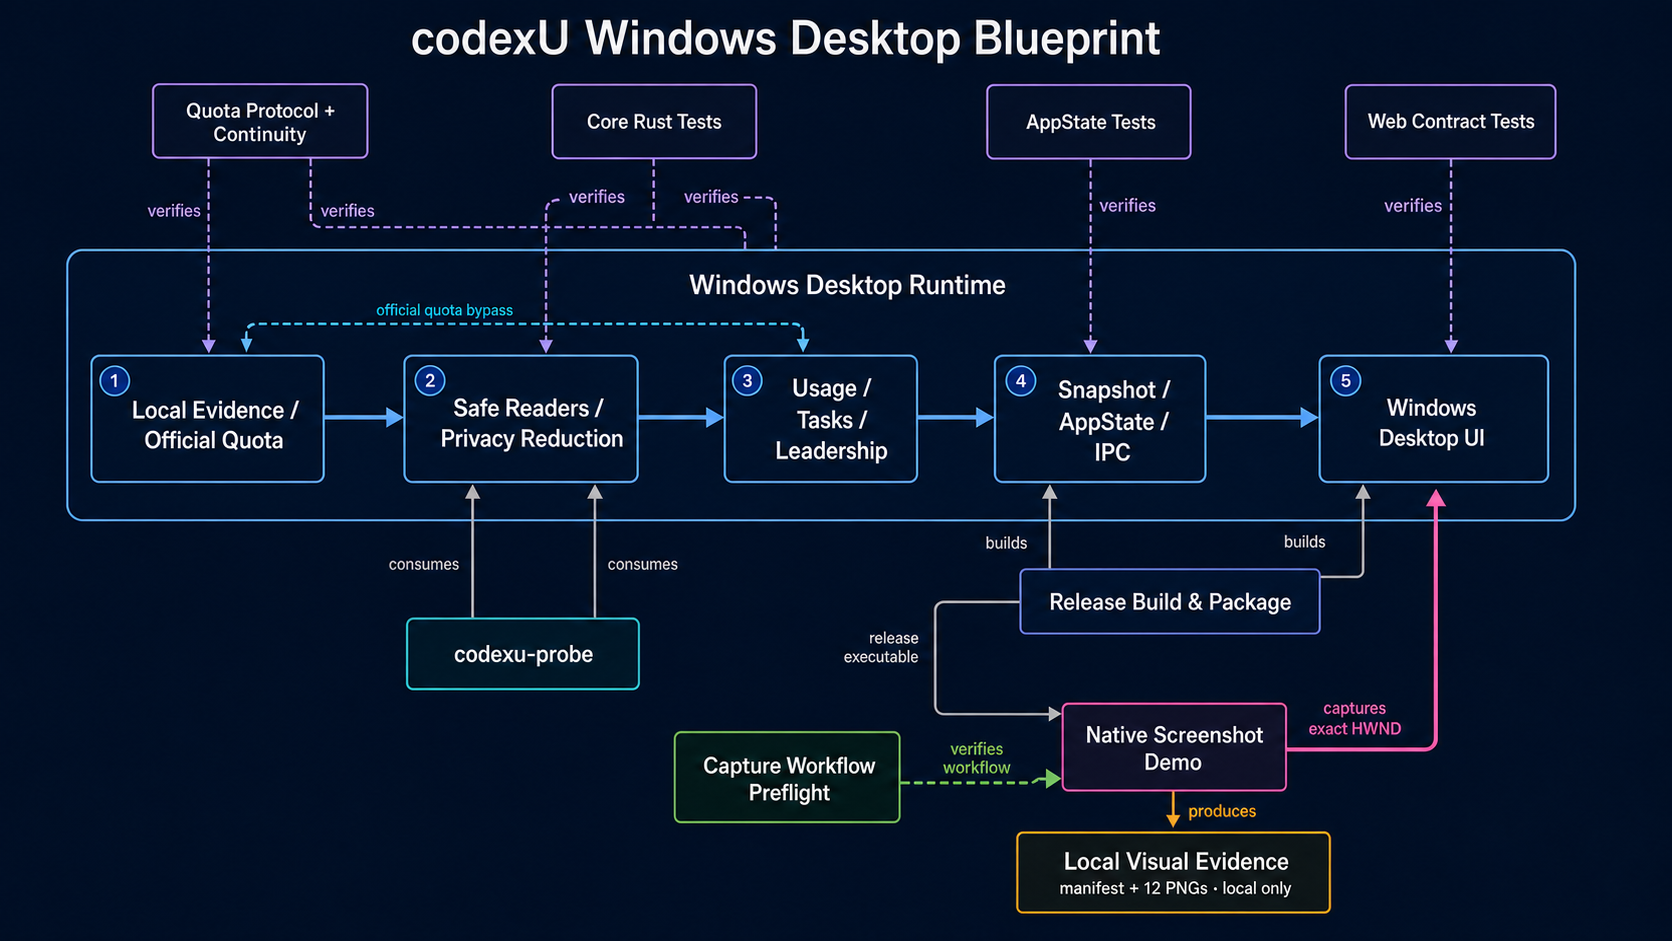
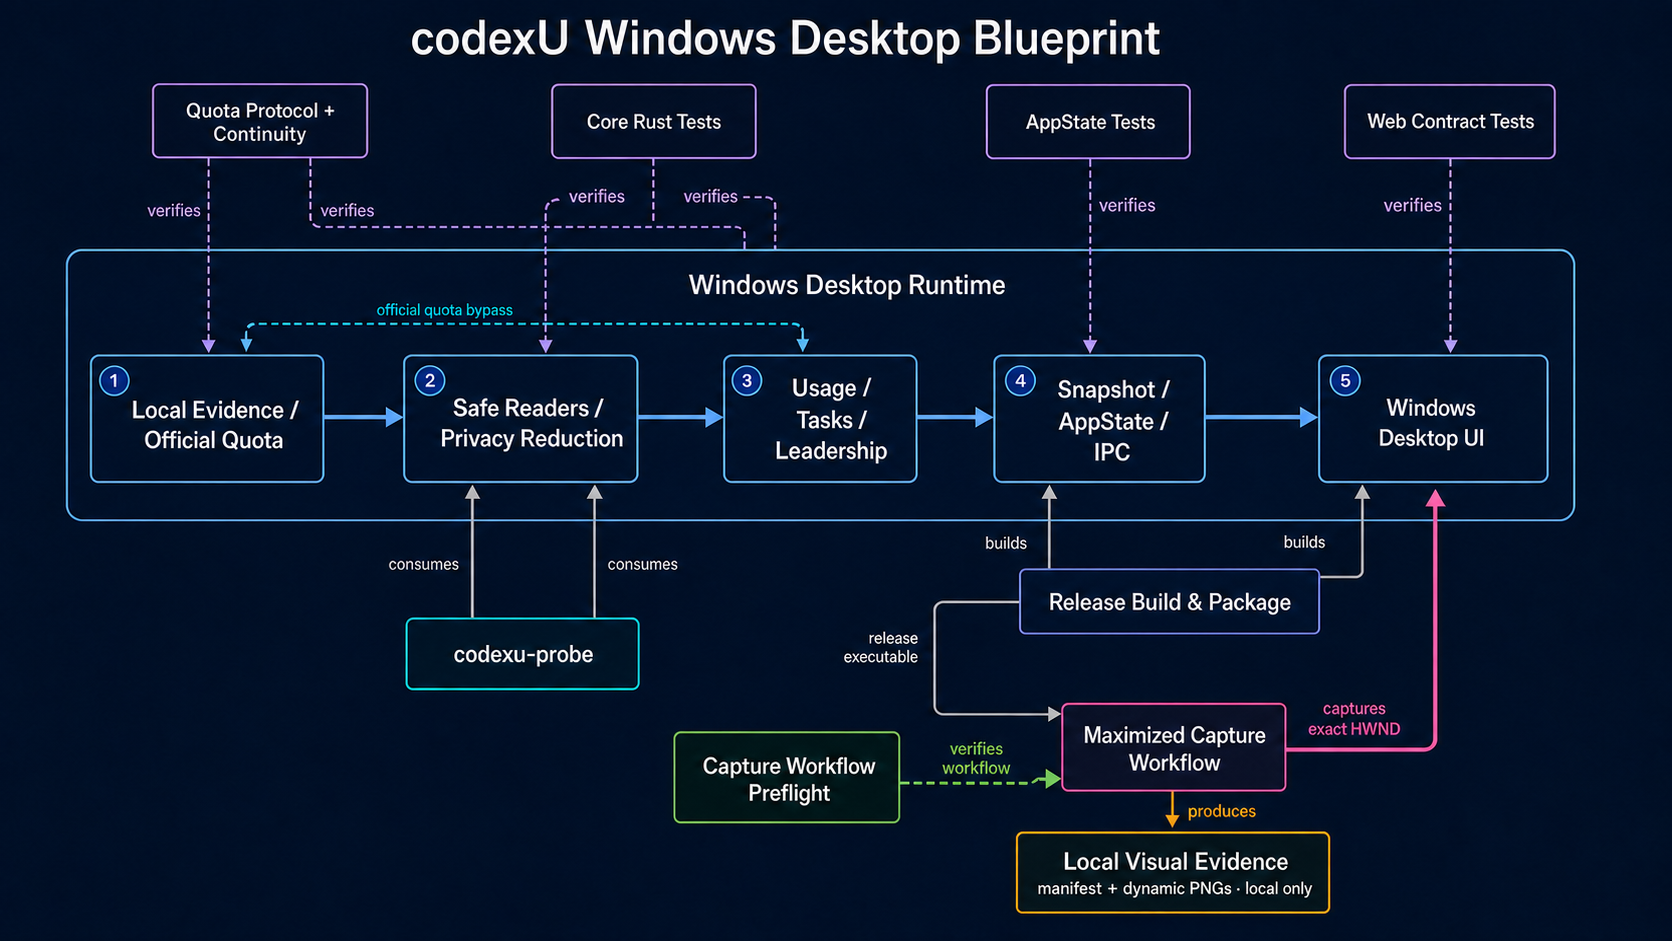
docs(windows): refresh maximized capture blueprint

diff --git a/docs/windows-port/blueprint/diagram.html b/docs/windows-port/blueprint/diagram.html
@@ -137,8 +137,8 @@
 <g class="edge edge-native_capture_demo-local_visual_evidence" data-crossing-style="">
 <polyline points="1410.0,940.2 1370.0,940.2 1370.0,1263.0 1330.0,1263.0" fill="none" stroke="#e5b65b" stroke-width="2.2" stroke-linecap="round" stroke-linejoin="round" marker-end="url(#arrow-produces)"/>
 <g class="edge-label">
-<rect x="1279.0" y="1084.6" width="182.0" height="21" rx="7" fill="#081120" fill-opacity="0.94" stroke="#263754" stroke-width="0.8"/>
-<text x="1370.0" y="1099.6" font-family="'Segoe UI','Microsoft YaHei UI','Noto Sans CJK SC',sans-serif" font-size="9.8" font-weight="650" fill="#e5b65b" text-anchor="middle" opacity="1.00" letter-spacing="0.0">produces manifest + 12 PNGs</text>
+<rect x="1264.0" y="1084.6" width="212.0" height="21" rx="7" fill="#081120" fill-opacity="0.94" stroke="#263754" stroke-width="0.8"/>
+<text x="1370.0" y="1099.6" font-family="'Segoe UI','Microsoft YaHei UI','Noto Sans CJK SC',sans-serif" font-size="9.8" font-weight="650" fill="#e5b65b" text-anchor="middle" opacity="1.00" letter-spacing="0.0">produces maximized viewport PNGs</text>
 </g>
 </g>
 <g class="edge edge-codexu_probe-safe_readers" data-crossing-style="">
@@ -298,9 +298,9 @@
 <g id="node-native_capture_demo">
 <rect x="1410.0" y="845.0" width="285.0" height="136.0" rx="20" fill="#222b3c" stroke="#6f86a8" stroke-width="1.8" filter="url(#card-shadow)"/>
 <rect x="1411.0" y="846.0" width="5" height="134.0" rx="3" fill="#a7b7cf"/>
-<text x="1428.0" y="876.0" font-family="'Segoe UI','Microsoft YaHei UI','Noto Sans CJK SC',sans-serif" font-size="15.0" font-weight="720" fill="#f5f8ff" text-anchor="start" opacity="1.00" letter-spacing="0.0">Native Screenshot Demo</text>
+<text x="1428.0" y="876.0" font-family="'Segoe UI','Microsoft YaHei UI','Noto Sans CJK SC',sans-serif" font-size="15.0" font-weight="720" fill="#f5f8ff" text-anchor="start" opacity="1.00" letter-spacing="0.0">Maximized Capture Workflow</text>
 <text x="1428.0" y="917.0" font-family="'Segoe UI','Microsoft YaHei UI','Noto Sans CJK SC',sans-serif" font-size="11.5" font-weight="600" fill="#a7b7cf" text-anchor="start" opacity="1.00" letter-spacing="0.0">Windows.Graphics.Capture · exact HWND</text>
-<text x="1428.0" y="956.0" font-family="'Segoe UI','Microsoft YaHei UI','Noto Sans CJK SC',sans-serif" font-size="11.5" font-weight="430" fill="#aebbd0" text-anchor="start" opacity="1.00" letter-spacing="0.0">6 surfaces × 2 client sizes</text>
+<text x="1428.0" y="956.0" font-family="'Segoe UI','Microsoft YaHei UI','Noto Sans CJK SC',sans-serif" font-size="11.5" font-weight="430" fill="#aebbd0" text-anchor="start" opacity="1.00" letter-spacing="0.0">single maximized run · dynamic…</text>
 </g>
 <g id="node-capture_preflight">
 <rect x="1410.0" y="1045.0" width="285.0" height="136.0" rx="20" fill="#222b3c" stroke="#6f86a8" stroke-width="1.8" stroke-dasharray="8 6" filter="url(#card-shadow)"/>
@@ -314,7 +314,7 @@
 <rect x="1030.0" y="1195.0" width="300.0" height="136.0" rx="20" fill="#3d3424" stroke="#d8a74d" stroke-width="1.8" filter="url(#card-shadow)"/>
 <rect x="1031.0" y="1196.0" width="5" height="134.0" rx="3" fill="#f0c978"/>
 <text x="1048.0" y="1226.0" font-family="'Segoe UI','Microsoft YaHei UI','Noto Sans CJK SC',sans-serif" font-size="15.0" font-weight="720" fill="#f5f8ff" text-anchor="start" opacity="1.00" letter-spacing="0.0">Local Visual Evidence</text>
-<text x="1048.0" y="1267.0" font-family="'Segoe UI','Microsoft YaHei UI','Noto Sans CJK SC',sans-serif" font-size="11.5" font-weight="600" fill="#f0c978" text-anchor="start" opacity="1.00" letter-spacing="0.0">manifest · logs · 12 PNGs</text>
+<text x="1048.0" y="1267.0" font-family="'Segoe UI','Microsoft YaHei UI','Noto Sans CJK SC',sans-serif" font-size="11.5" font-weight="600" fill="#f0c978" text-anchor="start" opacity="1.00" letter-spacing="0.0">manifest · logs · dynamic PNGs</text>
 <text x="1048.0" y="1306.0" font-family="'Segoe UI','Microsoft YaHei UI','Noto Sans CJK SC',sans-serif" font-size="11.5" font-weight="430" fill="#aebbd0" text-anchor="start" opacity="1.00" letter-spacing="0.0">.local-artifacts only · Git ignored</text>
 </g>
 </g>
